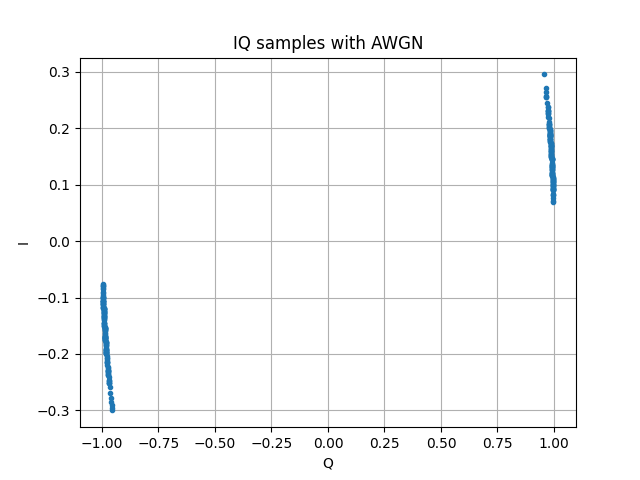
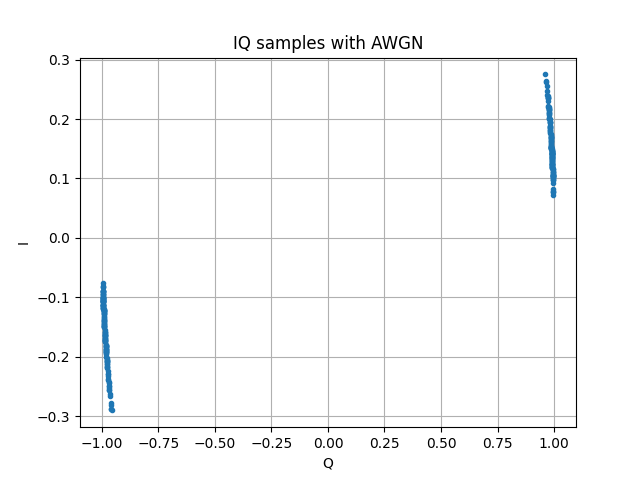
quantizator implementation

diff --git a/main.py b/main.py
@@ -16,6 +16,15 @@ def iqPlot(values,title):
     plt.close()
 
 
+def quantize_uniform(x, quant_min=-1.0, quant_max=1.0, quant_level=5):
+
+    x_normalize = (x-quant_min) * (quant_level-1) / (quant_max-quant_min)
+    x_normalize[x_normalize > quant_level - 1] = quant_level - 1
+    x_normalize[x_normalize < 0] = 0
+    x_normalize_quant = np.around(x_normalize)-pow(2,BIT_FOR_IQ-1)
+
+    return x_normalize_quant
+
 def quantizer(value):
 
     quantized_value = abs(round(value/V_FS * (pow(2,BIT_FOR_IQ-1)-1)))
@@ -47,7 +56,8 @@ if __name__ == '__main__':
     TEMPERATURE = 300
     BAND = 1.023 * pow(10,6)
     N_0 = BOLTZMANN_COSTANT*TEMPERATURE
-    F_S = 100 # Sampling frequency
+    F_S = 4*pow(10,6) # Sampling frequency
+
 
     V_FS = pow(10,-4)
     BIT_FOR_IQ = 16
@@ -131,38 +141,49 @@ if __name__ == '__main__':
             doppler_shift_vector = np.random.uniform(2000,5000,boc_for_message_bit_size)
             latency_vector = np.random.uniform(5,10,boc_for_message_bit_size)*pow(10,-6)
 
+            # Plot the BOC(1,1)
             if(firstPlot and len(sys.argv)>1 and sys.argv[1] == "-p"):
                 iqPlot(boc_values_message_bit, "BOC(1,1) output")
 
+            # Doppler shift
             boc_values_message_bit_channel = boc_values_message_bit * np.exp(1j*2*np.pi*doppler_shift_vector*latency_vector)
 
             if(firstPlot and len(sys.argv)>1 and sys.argv[1] == "-p"):
                 iqPlot(boc_values_message_bit_channel, "IQ samples with doppler shift")
 
             if(noiseFlag):
+                # AWGN
                 boc_values_message_bit_channel = boc_values_message_bit_channel + awgn_vector
                 if(firstPlot and len(sys.argv)>1 and sys.argv[1] == "-p"):
                     iqPlot(boc_values_message_bit_channel, "IQ samples with AWGN")
 
+            # Path loss
             boc_values_message_bit_channel = boc_values_message_bit_channel * path_loss_vector
+
+            for i in range(len(boc_values_message_bit_channel)):
+                boc_values_message_bit_channel[i] = F_S * 1/(2*BAND+doppler_shift_vector[i])
 
             if(firstPlot and len(sys.argv)>1 and sys.argv[1] == "-p"):
                 iqPlot(boc_values_message_bit_channel, "IQ samples with path loss")
 
-
             for boc_value_message_bit_channel in boc_values_message_bit_channel:
-                real_sample = quantizer(np.real(boc_value_message_bit_channel))
-                imag_sample = quantizer(np.imag(boc_value_message_bit_channel))
+
+                real_sample = int(quantize_uniform(np.array([np.real(boc_value_message_bit_channel)]), -V_FS, V_FS,pow(2,BIT_FOR_IQ))[0])
+                imag_sample = int(quantize_uniform(np.imag([np.real(boc_value_message_bit_channel)]), -V_FS, V_FS,pow(2,BIT_FOR_IQ))[0])
                 output_file.write(real_sample.to_bytes(2,byteorder='big',signed=True))
                 output_file.write(imag_sample.to_bytes(2,byteorder='big',signed=True))
+                output_file.flush()
 
             chunk_channel.append(boc_values_message_bit_channel)
 
             firstPlot = False
 
-        print("Chunk with channel effects: AWGN, PATH LOSS and DOPPLER SHIFT")
-        print(chunk_channel)
+        print("Chunk with channel effects: AWGN (if flag True), PATH LOSS and DOPPLER SHIFT")
+        print(str(chunk_channel[0]) + "...")
         print("\n-------------------------------------------------\n")
         
         chunk_count += 1
         bit_count = 0
+
+    message.close()
+    output_file.close()
